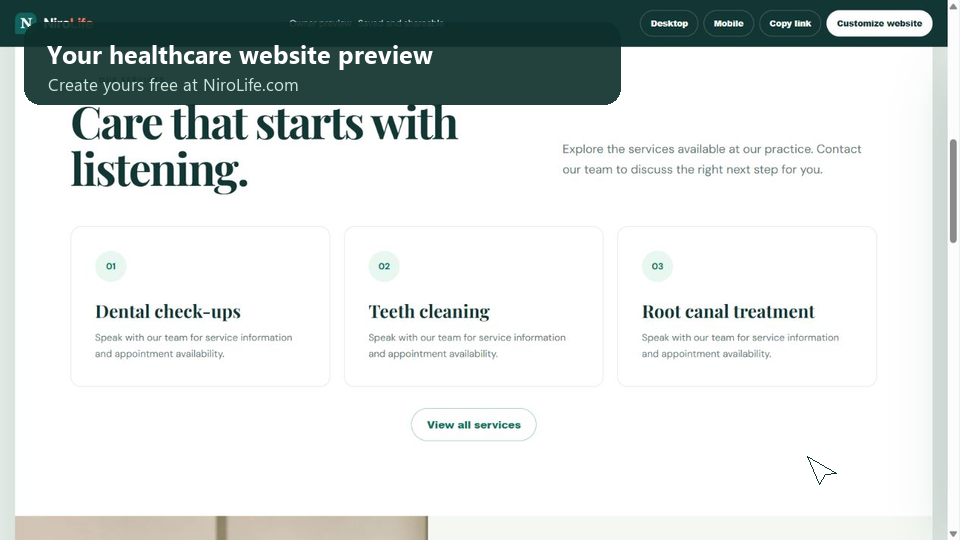
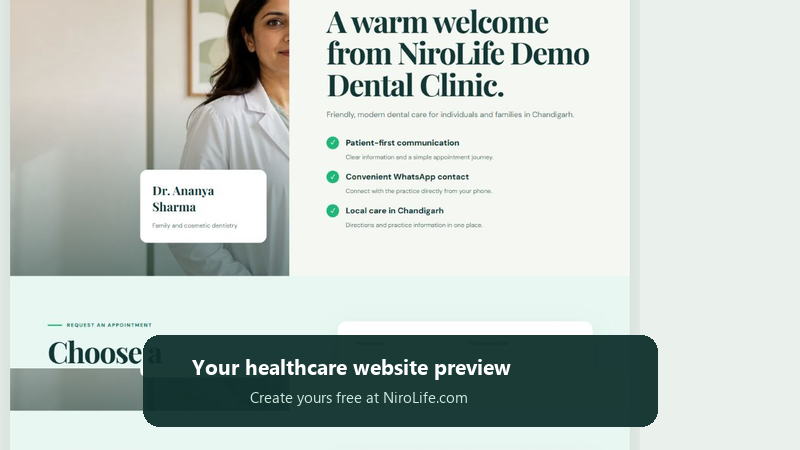
Recut hero demo with UI-native transitions

diff --git a/index.html b/index.html
@@ -40,7 +40,7 @@
         <div class="orb orb-one"></div><div class="orb orb-two"></div>
         <div class="browser-card">
           <div class="browser-bar"><span></span><span></span><span></span><small>nirolife.com/site/your-practice</small></div>
-          <picture class="hero-demo"><source media="(prefers-reduced-motion: reduce)" srcset="/nirolife-demo-poster.png"><img src="/nirolife-demo.webp" width="960" height="540" alt="Demo showing the NiroLife healthcare website form and generated website preview" decoding="async" fetchpriority="high"></picture>
+          <picture class="hero-demo"><source media="(prefers-reduced-motion: reduce)" srcset="/nirolife-demo-poster.png"><img src="/nirolife-demo.webp" width="800" height="450" alt="Demo showing the NiroLife healthcare website form and generated website preview" decoding="async" fetchpriority="high"></picture>
         </div>
         <div class="floating-note"><span class="check">✓</span><div><strong>Preview in under a minute</strong><small>Free · no card required</small></div></div>
       </div>
